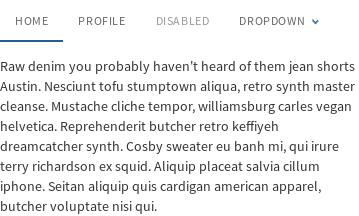
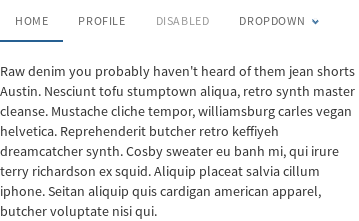
fix(theme): tabs with anchor due to react-bootstrap (#130)
* fix(theme): tabs with anchor due to react-bootstrap

* test(ci): update screenshots

diff --git a/packages/theme/example/index.html b/packages/theme/example/index.html
@@ -7,7 +7,7 @@
     <meta http-equiv="X-UA-Compatible" content="IE=edge" />
     <link rel="stylesheet" href="dist/bootstrap.css" media="screen">
     <style>
-    body{padding-top:50px}body>.navbar{-webkit-transition:background-color .3s ease-in;transition:background-color .3s ease-in}@media (min-width:768px){body>.navbar-transparent{background-color:transparent}body>.navbar-transparent .navbar-nav>.open>a{background-color:transparent!important}}#home{padding-top:0}#home .navbar-brand{padding:13.5px 15px 12.5px}#home .navbar-brand>img{display:inline;margin:0 10px;height:100%}#banner{min-height:300px;border-bottom:none}.table-of-contents{margin-top:1em}.page-header h1{font-size:4em}.bs-docs-section{margin-top:6em}.bs-docs-section h1{padding-top:100px}.bs-component{position:relative}.bs-component .modal{position:relative;top:auto;right:auto;left:auto;bottom:auto;z-index:1;display:block}.bs-component .modal-dialog{width:90%}.bs-component .popover{position:relative;display:inline-block;width:220px;margin:20px}#source-button{position:absolute;top:0;right:0;z-index:100;font-weight:700}.nav-tabs{margin-bottom:15px}.progress{margin-bottom:10px}footer{margin:5em 0}footer li{float:left;margin-right:1.5em;margin-bottom:1.5em}footer p{clear:left;margin-bottom:0}.splash{padding:9em 0 2em;background-color:#141d27;background-image:url(../img/bg.jpg);background-size:cover;background-attachment:fixed;color:#fff;text-align:center}.splash .logo{width:160px}.splash h1{font-size:3em}.splash #social{margin:2em 0}.splash .alert{margin:2em 0}.section-tout{padding:4em 0 3em;border-bottom:1px solid rgba(0,0,0,.05);background-color:#eaf1f1}.section-tout .fa{margin-right:.5em}.section-tout p{margin-bottom:3em}.section-preview{padding:4em 0 4em}.section-preview .preview{margin-bottom:4em;background-color:#eaf1f1}.section-preview .preview .image{position:relative}.section-preview .preview .image:before{box-shadow:inset 0 0 0 1px rgba(0,0,0,.1);position:absolute;top:0;left:0;width:100%;height:100%;content:"";pointer-events:none}.section-preview .preview .options{padding:1em 2em 2em;border:1px solid rgba(0,0,0,.05);border-top:none;text-align:center}.section-preview .preview .options p{margin-bottom:2em}.section-preview .dropdown-menu{text-align:left}.section-preview .lead{margin-bottom:2em}@media (max-width:767px){.section-preview .image img{width:100%}}.sponsor #carbonads{max-width:240px;margin:0 auto}.sponsor .carbon-text{display:block;margin-top:1em;font-size:12px}.sponsor .carbon-poweredby{float:right;margin-top:1em;font-size:10px}@media (max-width:767px){.splash{padding-top:4em}.splash .logo{width:100px}.splash h1{font-size:2em}#banner{margin-bottom:2em;text-align:center}}
+    body{padding-top:50px}body>.navbar{-webkit-transition:background-color .3s ease-in;transition:background-color .3s ease-in}@media (min-width:768px){body>.navbar-transparent{background-color:transparent}body>.navbar-transparent .navbar-nav>.open>a{background-color:transparent!important}}#home{padding-top:0}#home .navbar-brand{padding:13.5px 15px 12.5px}#home .navbar-brand>img{display:inline;margin:0 10px;height:100%}#banner{min-height:300px;border-bottom:none}.table-of-contents{margin-top:1em}.page-header h1{font-size:4em}.bs-docs-section{margin-top:6em}.bs-docs-section h1{padding-top:100px}.bs-component{position:relative}.bs-component .modal{position:relative;top:auto;right:auto;left:auto;bottom:auto;z-index:1;display:block}.bs-component .modal-dialog{width:90%}.bs-component .popover{position:relative;display:inline-block;width:220px;margin:20px}#source-button{position:absolute;top:0;right:0;z-index:100;font-weight:700}.progress{margin-bottom:10px}footer{margin:5em 0}footer li{float:left;margin-right:1.5em;margin-bottom:1.5em}footer p{clear:left;margin-bottom:0}.splash{padding:9em 0 2em;background-color:#141d27;background-image:url(../img/bg.jpg);background-size:cover;background-attachment:fixed;color:#fff;text-align:center}.splash .logo{width:160px}.splash h1{font-size:3em}.splash #social{margin:2em 0}.splash .alert{margin:2em 0}.section-tout{padding:4em 0 3em;border-bottom:1px solid rgba(0,0,0,.05);background-color:#eaf1f1}.section-tout .fa{margin-right:.5em}.section-tout p{margin-bottom:3em}.section-preview{padding:4em 0 4em}.section-preview .preview{margin-bottom:4em;background-color:#eaf1f1}.section-preview .preview .image{position:relative}.section-preview .preview .image:before{box-shadow:inset 0 0 0 1px rgba(0,0,0,.1);position:absolute;top:0;left:0;width:100%;height:100%;content:"";pointer-events:none}.section-preview .preview .options{padding:1em 2em 2em;border:1px solid rgba(0,0,0,.05);border-top:none;text-align:center}.section-preview .preview .options p{margin-bottom:2em}.section-preview .dropdown-menu{text-align:left}.section-preview .lead{margin-bottom:2em}@media (max-width:767px){.section-preview .image img{width:100%}}.sponsor #carbonads{max-width:240px;margin:0 auto}.sponsor .carbon-text{display:block;margin-top:1em;font-size:12px}.sponsor .carbon-poweredby{float:right;margin-top:1em;font-size:10px}@media (max-width:767px){.splash{padding-top:4em}.splash .logo{width:100px}.splash h1{font-size:2em}#banner{margin-bottom:2em;text-align:center}}
     </style>
   </head>
   <body>

diff --git a/packages/theme/src/theme/_navs.scss b/packages/theme/src/theme/_navs.scss
@@ -78,32 +78,16 @@
 
 		> li {
 
-			&.active {
-
-				button {
-					box-shadow: 0 -2px 0 $brand-primary inset;
-				}
-			}
-
-			&.disabled button {
-				cursor: not-allowed;
-				color: rgba(1, 1, 1, 0.4);
-
-				&:focus,
-				&:hover {
-					background: transparent;
-				}
-			}
-
+			> a,
 			> button {
-				background: transparent;
-				border: none;
-				color: rgba(1, 1, 1, 0.6);
+				padding: $padding-normal;
 				letter-spacing: 0.6px;
 				line-height: 1;
-				outline: none;
-				padding: $padding-normal;
 				text-transform: uppercase;
+				color: rgba(1, 1, 1, 0.6);
+				background: transparent;
+				border: none;
+				outline: none;
 
 				&:focus {
 					background: rgba(0, 0, 0, 0.06);
@@ -113,6 +97,39 @@
 					background: rgba(0, 0, 0, 0.03);
 				}
 			}
+
+			&.active {
+				> a,
+				> button {
+					box-shadow: 0 -2px 0 $brand-primary inset;
+
+					&,
+					&:focus,
+					&:hover {
+						background: transparent;
+						border: none;
+					}
+				}
+			}
+
+			&.disabled {
+				> a,
+				> button {
+					cursor: not-allowed;
+					color: rgba(1, 1, 1, 0.4);
+
+					&,
+					&:focus,
+					&:hover {
+						background: transparent;
+						border: none;
+					}
+				}
+			}
+		}
+
+		+ .tab-content {
+			padding-top: $padding-large;
 		}
 	}
 }
